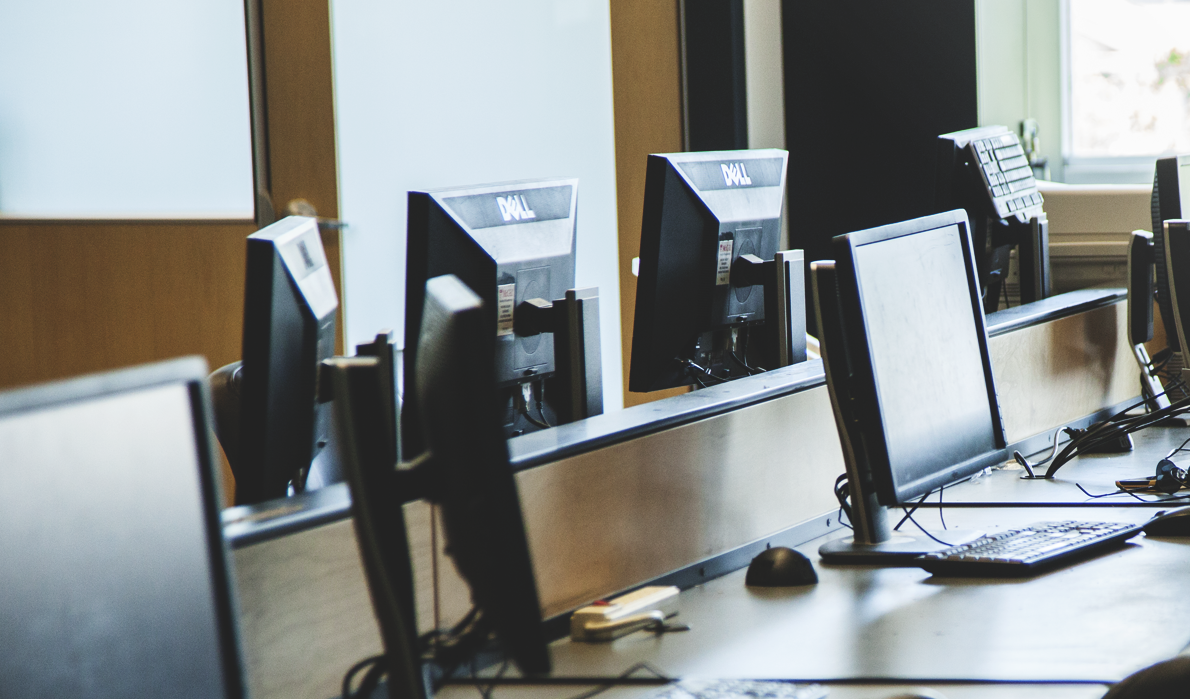
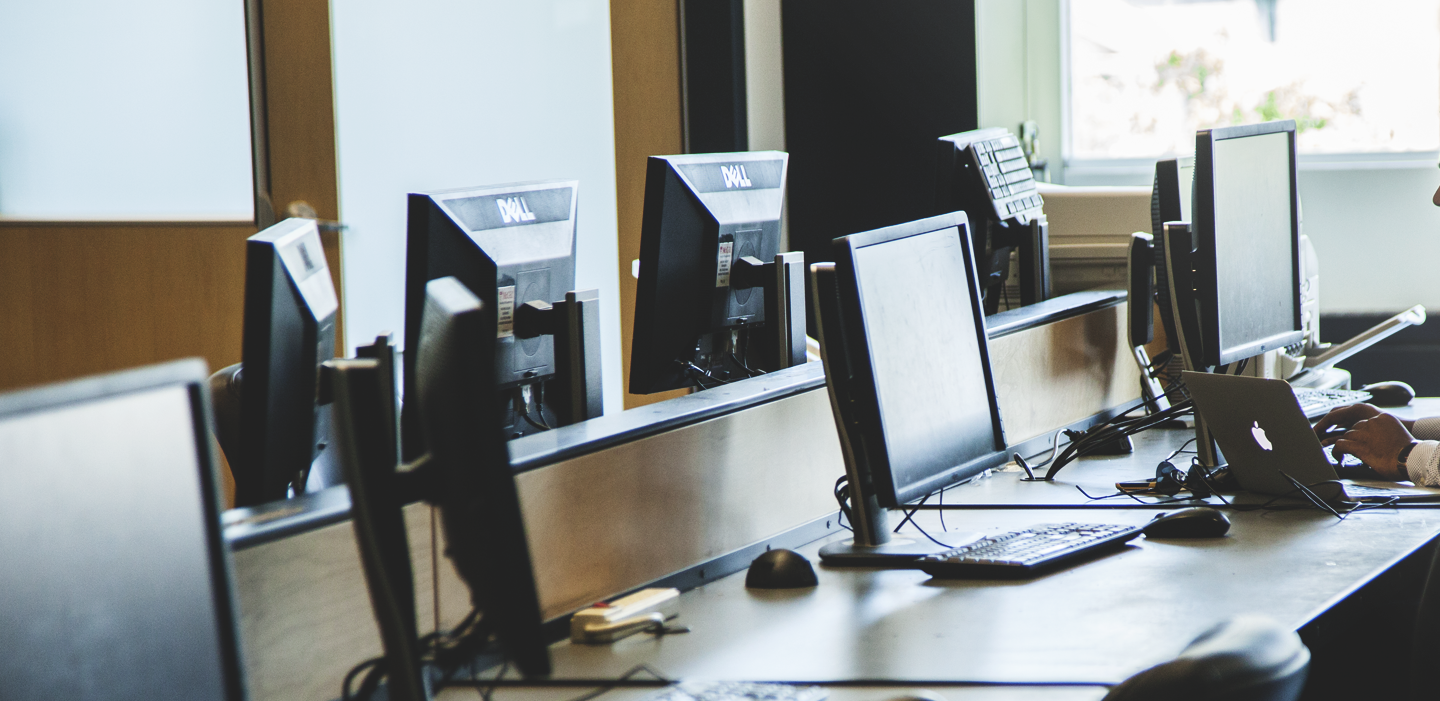
Fixing carousel

diff --git a/public/css/homepage.css b/public/css/homepage.css
@@ -58,7 +58,6 @@ hr {
     justify-content: center;
     position: relative;
     text-align: center;
-    height:100vh;
 }
 
 #backgroundCarousel{
